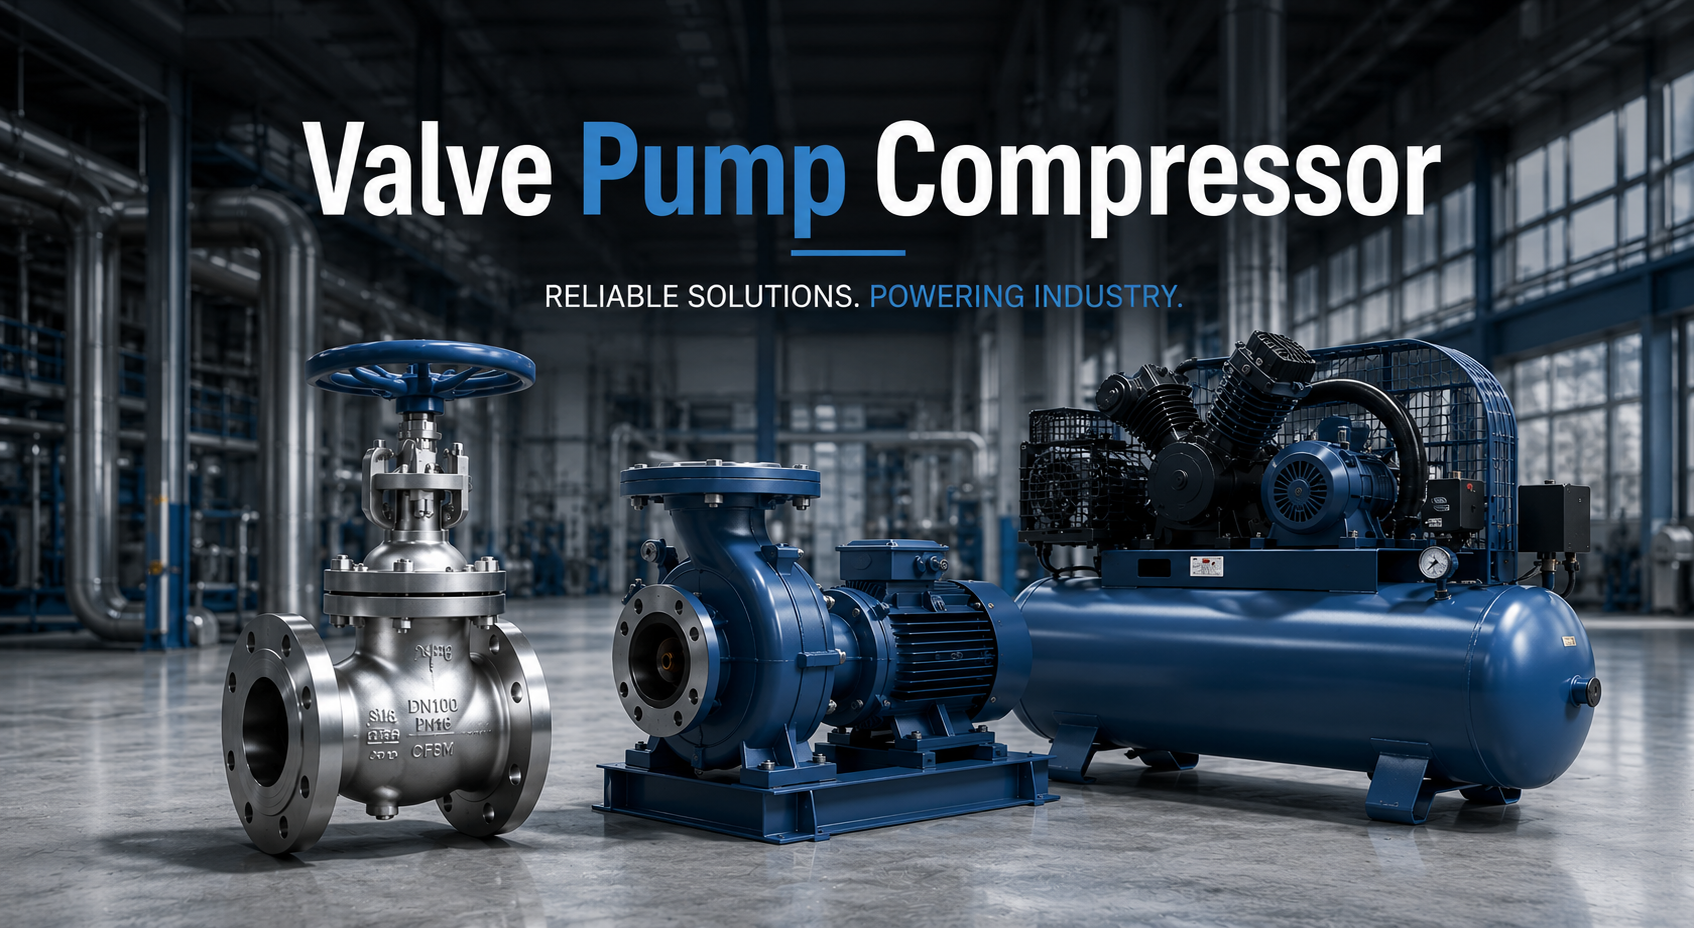
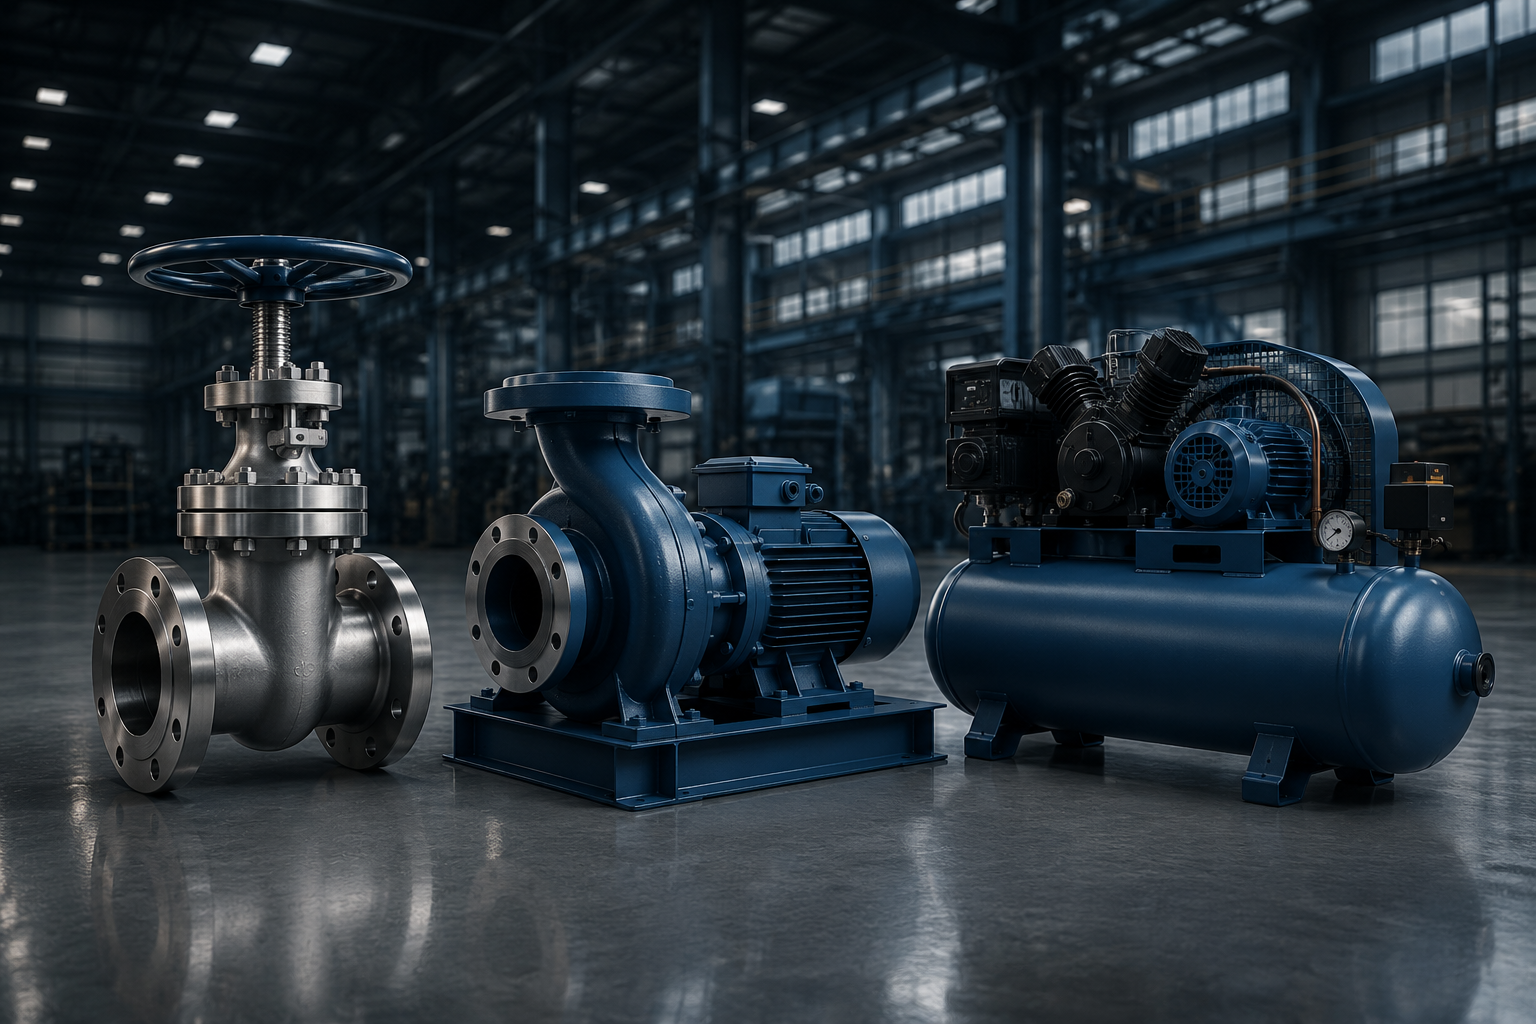
Add files via upload

diff --git a/index.html b/index.html
@@ -4,19 +4,16 @@
   <meta charset="UTF-8" />
   <meta name="viewport" content="width=device-width, initial-scale=1.0" />
   <title>VAPUCO | Valve Pump Compressor</title>
-  <meta name="description" content="VAPUCO supplies industrial valves, pumps and compressors for oil & gas, chemical, petrochemical, power generation and water industries.">
+  <meta name="description" content="VAPUCO supplies industrial valves, pumps and compressors for demanding industrial applications.">
   <link rel="stylesheet" href="style.css" />
 </head>
 <body>
 
-<div class="pretop">
-  <span>✉ [email redacted]</span>
-  <span>☎ [phone redacted]</span>
-  <span>📍 Narcisová 1945/2, Šaľa, 92705</span>
-</div>
+<header class="header" id="header">
+  <a class="logo" href="#">
+    <img src="logo.png" alt="VAPUCO logo">
+  </a>
 
-<header class="header">
-  <a class="logo" href="#"><img src="logo.png" alt="VAPUCO"></a>
   <nav>
     <a href="#">Home</a>
     <a href="#about">About us</a>
@@ -24,147 +21,80 @@
     <a href="#partners">Partners</a>
     <a href="#contact">Contact</a>
   </nav>
-  <a class="quote" href="mailto:[email redacted]">Request a quote</a>
+
+  <div class="header-contact">
+    <span>[email redacted]</span>
+    <span>[phone redacted]</span>
+  </div>
 </header>
 
 <section class="hero">
-  <div class="shade"></div>
-  <div class="hero-text">
-    <p class="small">Industrial solutions for demanding applications</p>
-    <h1><span>Valve</span><br><b>Pump</b><br><span>Compressor</span></h1>
-    <div class="blue-line"></div>
-    <h2>Reliable solutions. <b>Powering industry.</b></h2>
-    <p class="lead">VAPUCO supplies industrial valves, pumps and compressors with a focus on quality, technical support and fast communication.</p>
-    <div class="actions">
-      <a href="#products">Our products</a>
-      <a href="#contact" class="outline">Contact us</a>
+  <div class="hero-dark"></div>
+  <div class="hero-content">
+    <p class="eyebrow">Industrial solutions</p>
+    <h1>Valve<br><span>Pump</span><br>Compressor</h1>
+    <div class="line"></div>
+    <h2>Reliable industrial solutions</h2>
+    <p>High quality industrial valves, pumps and compressors for demanding applications.</p>
+    <div class="hero-buttons">
+      <a href="mailto:[email redacted]">Request a quote</a>
+      <a class="outline" href="#products">Our products</a>
     </div>
   </div>
 </section>
 
-<section class="trust">
-  <div>
-    <strong>Quality products</strong>
-    <p>Equipment from trusted manufacturers.</p>
-  </div>
-  <div>
-    <strong>Technical support</strong>
-    <p>Selection according to operating conditions.</p>
-  </div>
-  <div>
-    <strong>Reliable partner</strong>
-    <p>Long-term business relationships.</p>
-  </div>
-  <div>
-    <strong>Fast response</strong>
-    <p>Clear communication for your inquiries.</p>
-  </div>
-</section>
-
-<section id="products" class="section products">
-  <p class="tag">Product range</p>
+<section id="products" class="section">
+  <p class="eyebrow blue">Product range</p>
   <h2>Our products</h2>
-  <div class="underline"></div>
-  <div class="product-grid">
+  <div class="cards">
     <article>
-      <div class="num">01</div>
       <h3>Industrial Valves</h3>
       <p>Gate valves, globe valves, ball valves, check valves, butterfly valves, strainers and special industrial valves.</p>
-      <a href="mailto:[email redacted]">Send inquiry →</a>
     </article>
     <article>
-      <div class="num">02</div>
       <h3>Pumps</h3>
-      <p>Pumping solutions for industrial processes, water systems, chemical plants and demanding applications.</p>
-      <a href="mailto:[email redacted]">Send inquiry →</a>
+      <p>Reliable pumping solutions for industrial processes, water systems and demanding applications.</p>
     </article>
     <article>
-      <div class="num">03</div>
       <h3>Compressors</h3>
       <p>Industrial compressor solutions for continuous operation and reliable performance.</p>
-      <a href="mailto:[email redacted]">Send inquiry →</a>
     </article>
-  </div>
-</section>
-
-<section id="partners" class="partners">
-  <p class="tag">Trusted manufacturers</p>
-  <h2>Our partners</h2>
-  <div class="underline"></div>
-  <div class="partner-logos">
-    <div><img src="baltic.png" alt="Baltic Valves"></div>
-    <div><img src="bonney-forge.jpg" alt="Bonney Forge"></div>
-    <div><img src="valvosider.png" alt="Valvosider"></div>
   </div>
 </section>
 
 <section id="about" class="about">
   <div>
-    <p class="tag">About VAPUCO</p>
+    <p class="eyebrow blue">About VAPUCO</p>
     <h2>Your partner in industrial solutions</h2>
-    <p>VAPUCO is focused on supplying industrial valves, pumps and compressors for oil & gas, chemical, petrochemical, power generation, water and general industry. We help customers choose suitable equipment according to medium, pressure, temperature and project requirements.</p>
-    <a href="#contact">Contact our team</a>
-  </div>
-  <div class="stats">
-    <div><b>3</b><span>Main product groups</span></div>
-    <div><b>24h</b><span>Fast response</span></div>
-    <div><b>EU</b><span>Industrial market</span></div>
-    <div><b>100%</b><span>Technical focus</span></div>
+    <p>VAPUCO supplies industrial valves, pumps and compressors with a focus on quality, technical support and fast communication. We help customers choose suitable equipment according to medium, pressure, temperature and project requirements.</p>
   </div>
 </section>
 
-<section class="industries">
-  <h2>Industries we serve</h2>
-  <div>
-    <span>Oil & Gas</span>
-    <span>Chemical</span>
-    <span>Petrochemical</span>
-    <span>Power Generation</span>
-    <span>Water & Wastewater</span>
-    <span>General Industry</span>
-  </div>
+<section id="partners" class="section light">
+  <p class="eyebrow blue">Trusted manufacturers</p>
+  <h2>Partners</h2>
+  <p class="center-text">Baltic Valves · Bonney Forge · Valvosider</p>
 </section>
 
 <section id="contact" class="contact">
-  <div class="contact-info">
-    <p class="tag">Get in touch</p>
-    <h2>Send us your inquiry</h2>
-    <p>For quotation requests or technical questions, contact us directly.</p>
-    <ul>
-      <li><b>Email:</b> <a href="mailto:[email redacted]">[email redacted]</a></li>
-      <li><b>Phone:</b> <a href="tel:[phone redacted]">[phone redacted]</a></li>
-      <li><b>Address:</b> Narcisová 1945/2, 927 05 Šaľa, Slovakia</li>
-    </ul>
-  </div>
-  <form action="mailto:[email redacted]" method="post" enctype="text/plain">
-    <input name="name" placeholder="Your name">
-    <input name="email" placeholder="Email address">
-    <input name="subject" placeholder="Subject">
-    <textarea name="message" placeholder="Your message"></textarea>
-    <button type="submit">Send message</button>
-  </form>
+  <h2>Contact</h2>
+  <p><b>Email:</b> <a href="mailto:[email redacted]">[email redacted]</a></p>
+  <p><b>Phone:</b> <a href="tel:[phone redacted]">[phone redacted]</a></p>
+  <p><b>Address:</b> Narcisová 1945/2, 927 05 Šaľa, Slovakia</p>
 </section>
 
-<footer>
-  <div>
-    <img src="logo.png" alt="VAPUCO">
-    <p>Reliable solutions for industrial applications worldwide.</p>
-  </div>
-  <div>
-    <h4>Products</h4>
-    <p>Industrial Valves</p>
-    <p>Pumps</p>
-    <p>Compressors</p>
-  </div>
-  <div>
-    <h4>Contact</h4>
-    <p>[email redacted]</p>
-    <p>[phone redacted]</p>
-    <p>Šaľa, Slovakia</p>
-  </div>
-</footer>
+<footer>© 2026 VAPUCO — Valve Pump Compressor</footer>
 
-<div class="copyright">© 2026 VAPUCO. All rights reserved.</div>
+<script>
+window.addEventListener("scroll", function () {
+  const header = document.getElementById("header");
+  if (window.scrollY > 60) {
+    header.classList.add("scrolled");
+  } else {
+    header.classList.remove("scrolled");
+  }
+});
+</script>
 
 </body>
 </html>

diff --git a/style.css b/style.css
@@ -1,1 +1,1 @@
-*{box-sizing:border-box}html{scroll-behavior:smooth}body{margin:0;font-family:Arial,Helvetica,sans-serif;background:#fff;color:#0a2038}a{text-decoration:none}.pretop{height:34px;background:#061827;color:#dbeeff;display:flex;align-items:center;justify-content:flex-end;gap:28px;padding:0 5%;font-size:13px}.header{height:92px;background:white;display:flex;align-items:center;gap:34px;padding:0 5%;box-shadow:0 6px 22px rgba(0,0,0,.08);position:sticky;top:0;z-index:50}.logo img{height:82px;display:block}nav{display:flex;gap:28px;flex:1;justify-content:center}nav a{text-transform:uppercase;color:#0a2038;font-weight:900;font-size:14px;letter-spacing:.03em}nav a:hover{color:#0a84e6}.quote,.actions a,.about a,form button{background:#0a84e6;color:white;padding:14px 22px;border-radius:4px;text-transform:uppercase;font-weight:900;font-size:13px}.hero{height:720px;position:relative;background:url('hero.png') center center/cover no-repeat;display:flex;align-items:center;overflow:hidden}.hero:after{content:"";position:absolute;inset:0;background:radial-gradient(circle at 70% 45%,rgba(9,48,84,.1),rgba(0,0,0,.45) 45%,rgba(0,0,0,.78) 100%)}.shade{position:absolute;inset:0;background:linear-gradient(90deg,rgba(0,8,18,.88),rgba(0,8,18,.45),rgba(0,8,18,.05));z-index:1}.hero-text{position:relative;z-index:2;width:min(720px,90%);margin-left:5%;color:white}.small,.tag{text-transform:uppercase;color:#148eff;letter-spacing:.14em;font-weight:900;font-size:13px}.hero h1{font-size:clamp(58px,8vw,112px);line-height:.88;text-transform:uppercase;margin:8px 0 0;letter-spacing:1px}.hero h1 b{color:#128cea}.blue-line{width:120px;height:5px;background:#128cea;margin:28px 0}.hero h2{text-transform:uppercase;font-size:24px;margin:0 0 15px}.hero h2 b{color:#128cea}.lead{font-size:19px;line-height:1.55;color:#edf6ff;max-width:600px}.actions{display:flex;gap:16px;margin-top:30px}.actions .outline{background:transparent;border:1px solid rgba(255,255,255,.8)}.trust{display:grid;grid-template-columns:repeat(4,1fr);background:#082846;color:white}.trust div{padding:32px 5vw;border-right:1px solid rgba(255,255,255,.18)}.trust strong{text-transform:uppercase;font-size:17px}.trust p{color:#d8eafa;margin-bottom:0}.section{padding:70px 5%;text-align:center}.section h2,.partners h2,.about h2,.industries h2,.contact h2{text-transform:uppercase;font-size:38px;margin:4px 0}.underline{width:70px;height:4px;background:#128cea;margin:14px auto 36px}.product-grid{display:grid;grid-template-columns:repeat(3,1fr);gap:26px}.product-grid article{background:white;border:1px solid #dce8f3;border-radius:12px;text-align:left;padding:36px;box-shadow:0 15px 40px rgba(0,0,0,.08);transition:.25s}.product-grid article:hover{transform:translateY(-8px);box-shadow:0 22px 60px rgba(0,0,0,.13)}.num{color:#128cea;font-weight:900;font-size:18px}.product-grid h3{text-transform:uppercase;font-size:26px;margin:14px 0}.product-grid p{font-size:17px;line-height:1.55;color:#455b72}.product-grid a{color:#0a84e6;font-weight:900;text-transform:uppercase}.partners{padding:70px 5%;text-align:center;background:#f6fbff}.partner-logos{display:grid;grid-template-columns:repeat(3,1fr);gap:30px;align-items:center;max-width:1000px;margin:auto}.partner-logos div{height:150px;background:white;border:1px solid #dce8f3;border-radius:12px;display:flex;align-items:center;justify-content:center;padding:28px;box-shadow:0 12px 32px rgba(0,0,0,.06);transition:.25s}.partner-logos div:hover{transform:scale(1.04)}.partner-logos img{max-width:100%;max-height:95px;object-fit:contain}.about{background:linear-gradient(rgba(3,20,38,.9),rgba(3,20,38,.9)),url('hero.png') center/cover;color:white;display:grid;grid-template-columns:1fr 1.1fr;gap:50px;padding:80px 5%;align-items:center}.about p{color:#dcecff;font-size:17px;line-height:1.65}.stats{display:grid;grid-template-columns:repeat(4,1fr);gap:18px}.stats div{border:1px solid rgba(255,255,255,.28);border-radius:10px;padding:34px 14px;text-align:center}.stats b{display:block;font-size:42px;color:white}.stats span{text-transform:uppercase;font-size:13px;color:#dcecff;font-weight:800}.industries{text-align:center;padding:65px 5%;background:white}.industries div{display:flex;gap:14px;justify-content:center;flex-wrap:wrap;margin-top:24px}.industries span{padding:14px 20px;background:#eef7ff;border:1px solid #d5e8f8;border-radius:999px;font-weight:900}.contact{display:grid;grid-template-columns:.9fr 1.1fr;gap:42px;padding:70px 5%;background:#f6fbff}.contact-info ul{list-style:none;padding:0;font-size:17px;line-height:2}.contact a{color:#0a84e6;font-weight:900}form{display:grid;grid-template-columns:1fr 1fr;gap:14px}input,textarea{border:1px solid #cfddeb;padding:15px;border-radius:5px;font-size:15px}textarea{grid-column:1/-1;min-height:150px}form button{border:0;width:max-content;cursor:pointer}footer{background:#061827;color:#dbeeff;display:grid;grid-template-columns:1.4fr 1fr 1fr;gap:30px;padding:45px 5%}footer img{height:82px;background:white;border-radius:8px;padding:4px}footer h4{text-transform:uppercase}.copyright{background:#04111d;color:#a9c3d8;text-align:center;padding:16px}@media(max-width:950px){.pretop{display:none}.header{height:auto;flex-wrap:wrap;padding:12px 5%}.logo img{height:68px}nav{order:3;width:100%;justify-content:flex-start;overflow:auto;gap:18px}.quote{display:none}.hero{height:650px;background-position:center}.trust,.product-grid,.partner-logos,.about,.contact,footer{grid-template-columns:1fr}.stats{grid-template-columns:repeat(2,1fr)}.hero-text{margin-left:6%}.actions{flex-wrap:wrap}}
+*{box-sizing:border-box}html{scroll-behavior:smooth}body{margin:0;font-family:Arial,Helvetica,sans-serif;color:#071d33;background:#fff}a{text-decoration:none}.header{position:fixed;top:0;left:0;width:100%;height:96px;z-index:100;display:flex;align-items:center;gap:32px;padding:0 5%;background:rgba(3,15,28,.35);backdrop-filter:blur(10px);border-bottom:1px solid rgba(255,255,255,.14);transition:.3s}.header.scrolled{height:82px;background:rgba(255,255,255,.96);box-shadow:0 10px 35px rgba(0,0,0,.13);border-bottom:1px solid #e3edf6}.logo img{height:86px;display:block;transition:.3s}.header.scrolled .logo img{height:68px}.header nav{display:flex;gap:28px;flex:1;justify-content:center}.header nav a{text-transform:uppercase;font-weight:900;font-size:14px;letter-spacing:.04em;color:white;transition:.2s}.header.scrolled nav a{color:#071d33}.header nav a:hover{color:#168be8}.header-contact{display:flex;gap:18px;color:white;font-size:14px;font-weight:800;white-space:nowrap}.header.scrolled .header-contact{color:#071d33}.hero{height:100vh;min-height:720px;background:url('hero.png') center/cover no-repeat;position:relative;display:flex;align-items:center;overflow:hidden}.hero-dark{position:absolute;inset:0;background:linear-gradient(90deg,rgba(0,8,18,.88) 0%,rgba(0,8,18,.62) 38%,rgba(0,8,18,.18) 70%,rgba(0,8,18,.08) 100%)}.hero:after{content:"";position:absolute;inset:0;background:radial-gradient(circle at 70% 45%,rgba(18,142,234,.08),rgba(0,0,0,.35) 65%)}.hero-content{position:relative;z-index:2;color:white;width:min(700px,90%);margin-left:5%;padding-top:70px;animation:fadeUp .9s ease both}.eyebrow{text-transform:uppercase;letter-spacing:.16em;font-size:13px;font-weight:900;color:#83caff;margin:0 0 14px}.blue{color:#168be8}.hero h1{text-transform:uppercase;font-size:clamp(62px,8vw,112px);line-height:.88;margin:0;letter-spacing:1px}.hero h1 span{color:#168be8}.line{width:120px;height:5px;background:#168be8;margin:28px 0}.hero h2{text-transform:uppercase;font-size:25px;margin:0 0 14px}.hero p{font-size:19px;line-height:1.55;color:#eaf5ff;max-width:600px}.hero-buttons{display:flex;gap:16px;flex-wrap:wrap;margin-top:30px}.hero-buttons a{background:#168be8;color:white;padding:16px 26px;border-radius:5px;text-transform:uppercase;font-weight:900;font-size:14px;box-shadow:0 12px 30px rgba(22,139,232,.28)}.hero-buttons .outline{background:transparent;border:1px solid rgba(255,255,255,.78);box-shadow:none}.section{padding:80px 5%;text-align:center}.section h2,.about h2,.contact h2{text-transform:uppercase;font-size:38px;margin:0 0 32px}.cards{display:grid;grid-template-columns:repeat(3,1fr);gap:24px}.cards article{background:white;border:1px solid #dce8f3;border-radius:14px;padding:34px;text-align:left;box-shadow:0 14px 38px rgba(0,0,0,.08);transition:.25s}.cards article:hover{transform:translateY(-8px)}.cards h3{text-transform:uppercase;font-size:24px;margin:0 0 12px}.cards p{color:#465d74;line-height:1.6}.about{padding:90px 10%;background:#f6fbff;text-align:center}.about p{font-size:18px;line-height:1.75;color:#42586f}.light{background:white}.center-text{font-size:21px;font-weight:900;color:#42586f}.contact{padding:70px 5%;text-align:center;background:#071d33;color:white}.contact a{color:#83caff;font-weight:900}.contact p{font-size:18px}footer{background:#03111f;color:#cfe5f7;text-align:center;padding:24px}@keyframes fadeUp{from{opacity:0;transform:translateY(30px)}to{opacity:1;transform:translateY(0)}}@media(max-width:900px){.header{height:auto;min-height:88px;flex-wrap:wrap;padding:10px 5%;background:rgba(3,15,28,.75)}.logo img{height:64px}.header.scrolled .logo img{height:56px}.header nav{order:3;width:100%;justify-content:flex-start;overflow:auto;gap:18px}.header-contact{display:none}.hero{height:auto;min-height:760px;background-position:center}.hero-content{margin-left:6%;padding-top:120px}.cards{grid-template-columns:1fr}}